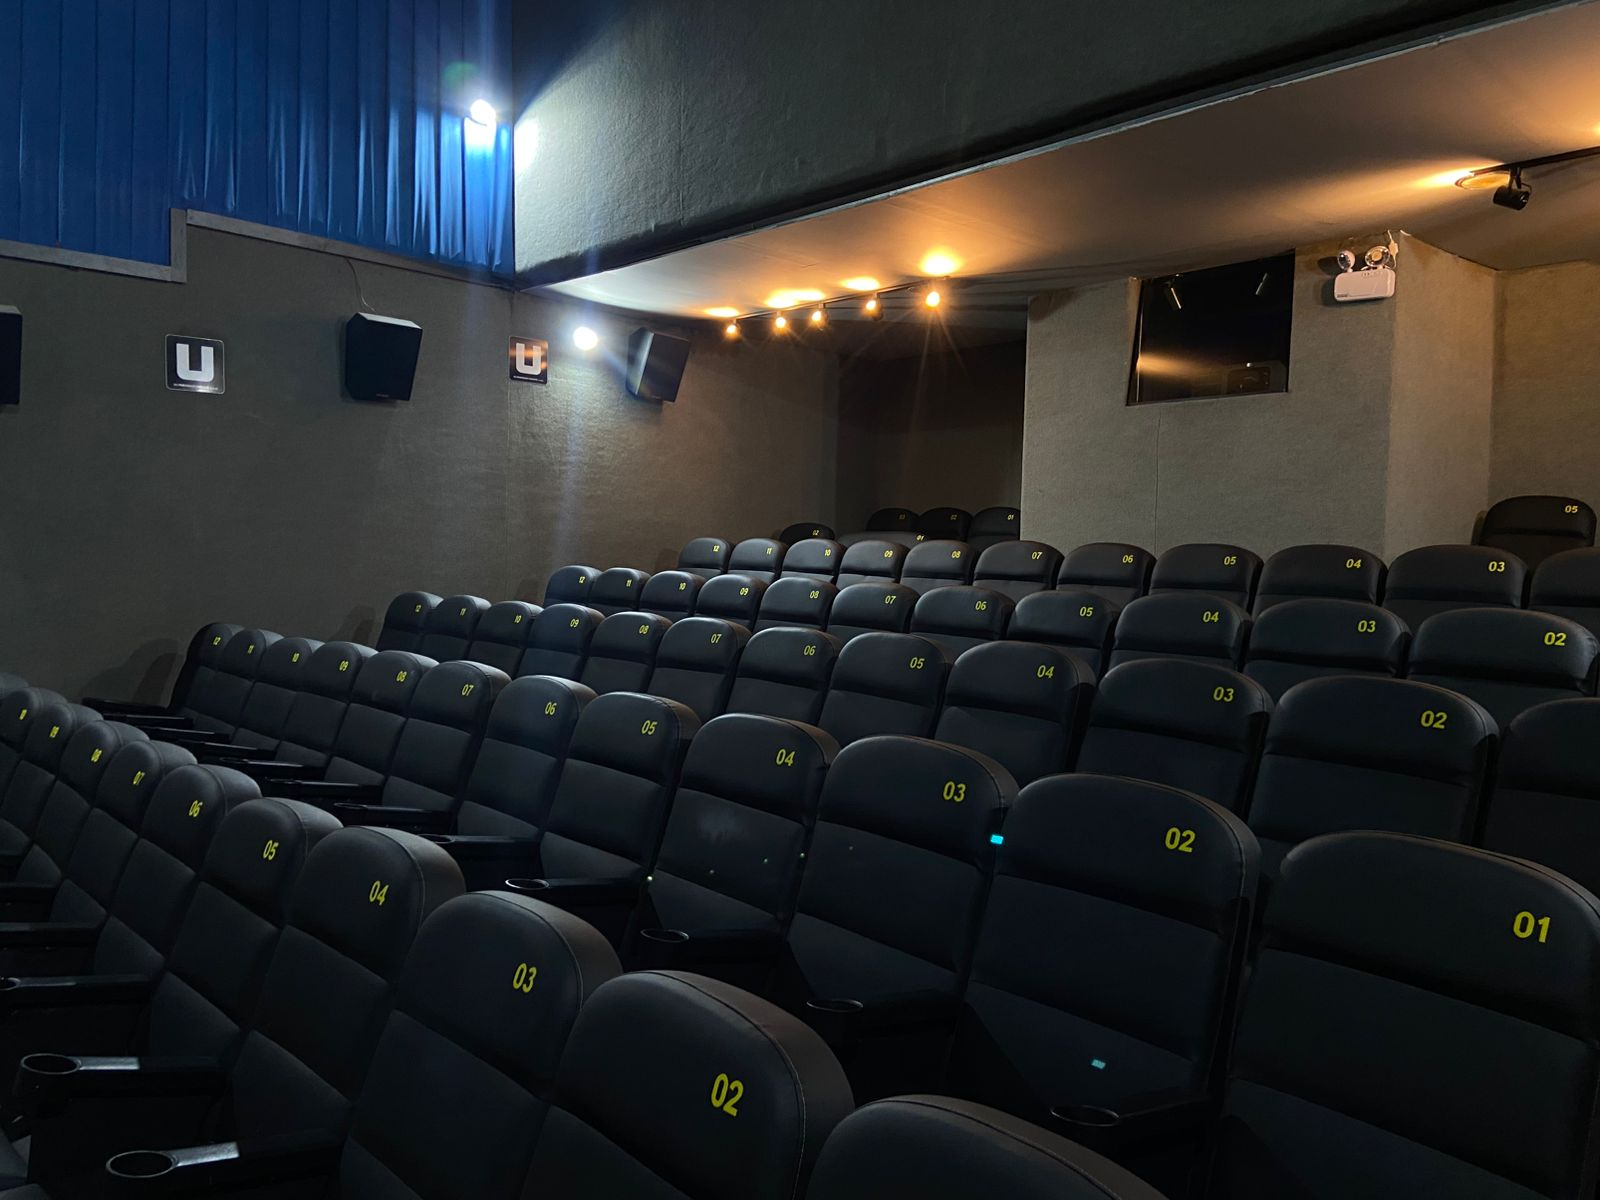
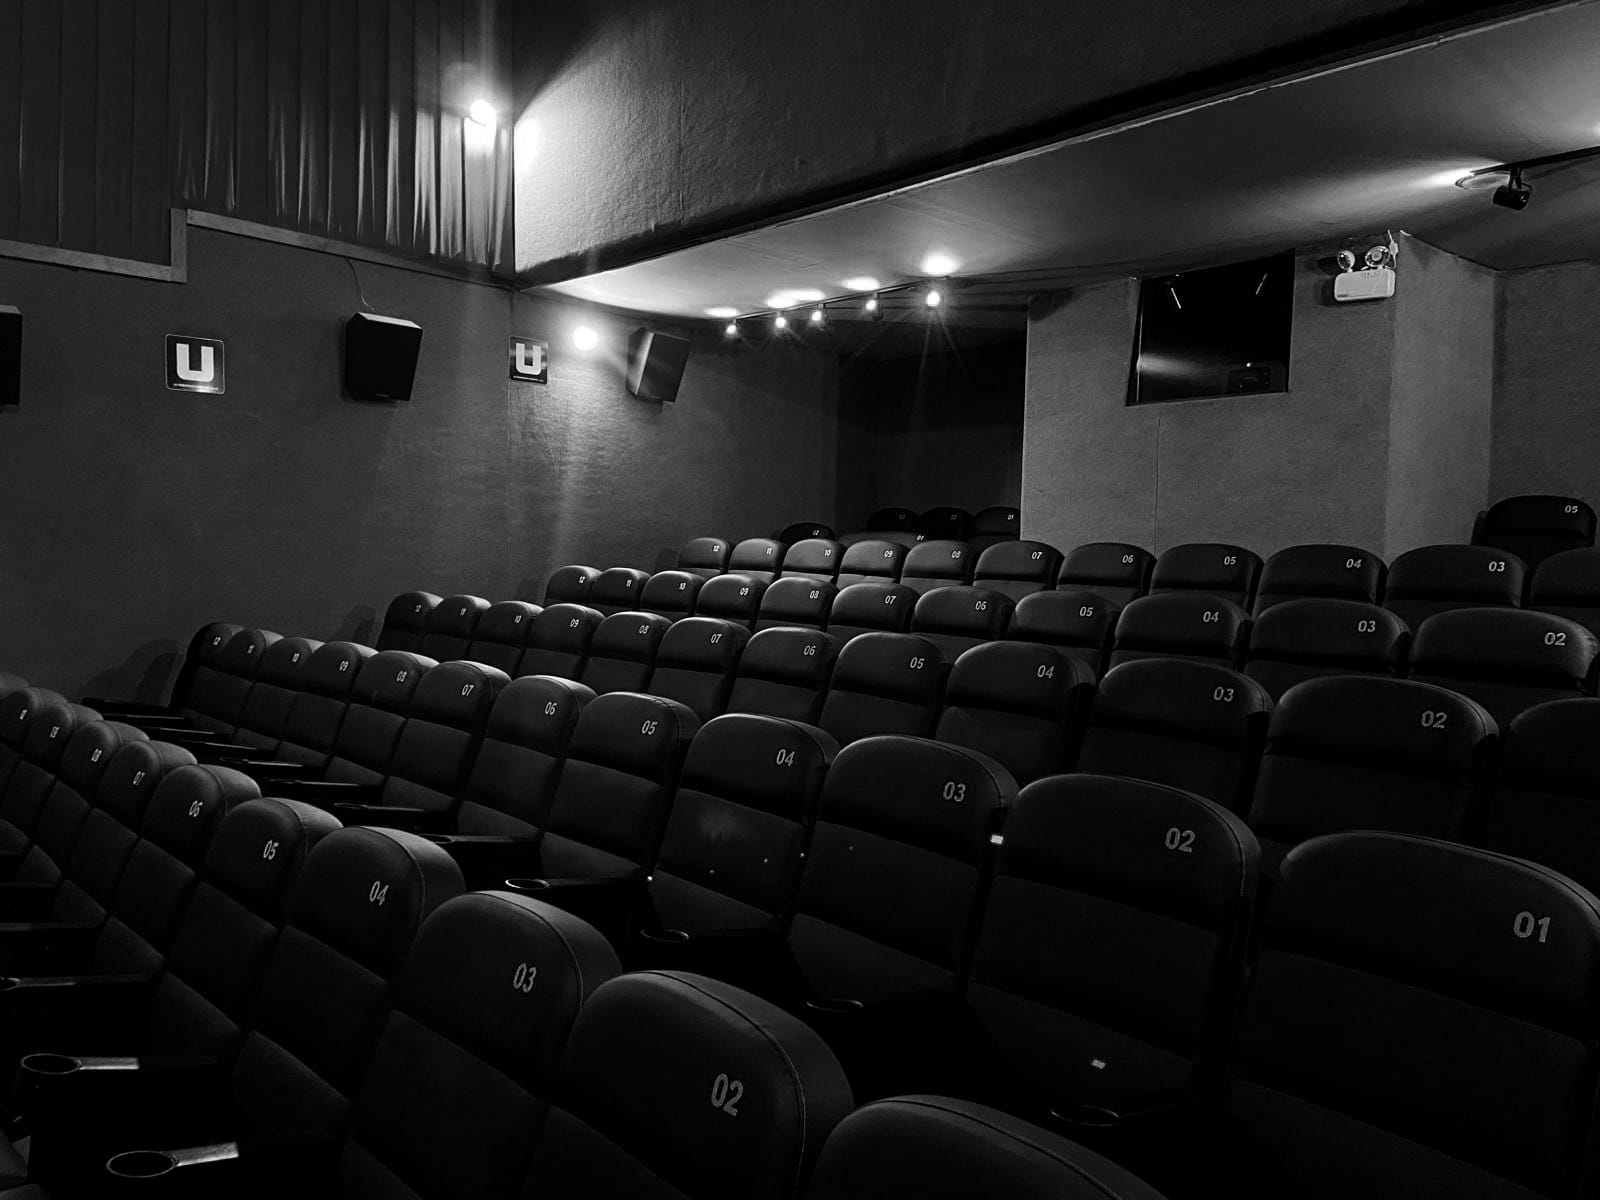
feat: add new gallery images and update references in HTML and CSS

diff --git a/index.html b/index.html
@@ -150,7 +150,7 @@
 					<div class="historia-texto">
 						<h2>Desafios e Retomada</h2>
 						<p>
-							A jornalista e ex-assessora de imprensa do espaço Aline Fallaci conta
+							A jornalista e ex assessora de imprensa do espaço Aline Fallaci conta
 							que o grande desafio pós-pandemia é reaproximar o público das telonas,
 							seja pelo fator econômico ou pela falta de interesse gerada pelos
 							serviços de streaming. Dessa forma, nos últimos anos, foram realizadas
@@ -227,7 +227,7 @@
 						</p>
 					</div>
 					<div class="historia-imagem">
-						<img src="assets/galeria1.jpeg" alt="Programação cultural do IMS" />
+						<img src="assets/galeria1.jpg" alt="Programação cultural do IMS" />
 					</div>
 				</div>
 
@@ -244,6 +244,10 @@
 						tradição e inovação, que continua a inspirar uma comunidade cada vez mais
 						participativa, crítica e consciente de seu papel na construção da própria
 						identidade.
+					</p>
+					<p>
+						O poços-caldense pode optar também pelo Cineflix, localizado no Shopping
+						Partage, além das mostras de cinema realizadas em eventos pela cidade.
 					</p>
 					<p class="destaque-final">
 						As cortinas do antigo Politheama podem ter se fechado há algum tempo, mas a
@@ -298,7 +302,7 @@
 
 				<div class="galeria-grid">
 					<div class="galeria-item">
-						<img src="assets/galeria1.jpeg" alt="Imagem Galeria 1" />
+						<img src="assets/galeria1.jpg" alt="Imagem Galeria 1" />
 					</div>
 					<div class="galeria-item">
 						<img src="assets/galeria2.jpg" alt="Imagem Galeria 2" />
@@ -308,6 +312,9 @@
 					</div>
 					<div class="galeria-item">
 						<img src="assets/galeria4.jpg" alt="Imagem Galeria 4" />
+					</div>
+					<div class="galeria-item">
+						<img src="assets/galeria11.jpg" alt="Imagem Galeria 5" />
 					</div>
 					<div class="galeria-item">
 						<img src="assets/galeria6.jpg" alt="Imagem Galeria 6" />
@@ -323,6 +330,12 @@
 					</div>
 					<div class="galeria-item">
 						<img src="assets/galeria10.jpg" alt="Imagem Galeria 10" />
+					</div>
+					<div class="galeria-item">
+						<img src="assets/galeria12.jpg" alt="Imagem Galeria 11" />
+					</div>
+					<div class="galeria-item">
+						<img src="assets/galeria13.jpg" alt="Imagem Galeria 12" />
 					</div>
 				</div>
 			</div>

diff --git a/styles.css b/styles.css
@@ -95,7 +95,7 @@ body {
 .hero {
 	height: 92vh;
 	background: linear-gradient(rgba(44, 85, 48, 0.5), rgba(74, 124, 89, 0.7)),
-		url("assets/galeria1.jpeg") center/cover;
+		url("assets/galeria1_cor.jpeg") center/cover;
 	display: flex;
 	align-items: center;
 	justify-content: center;
